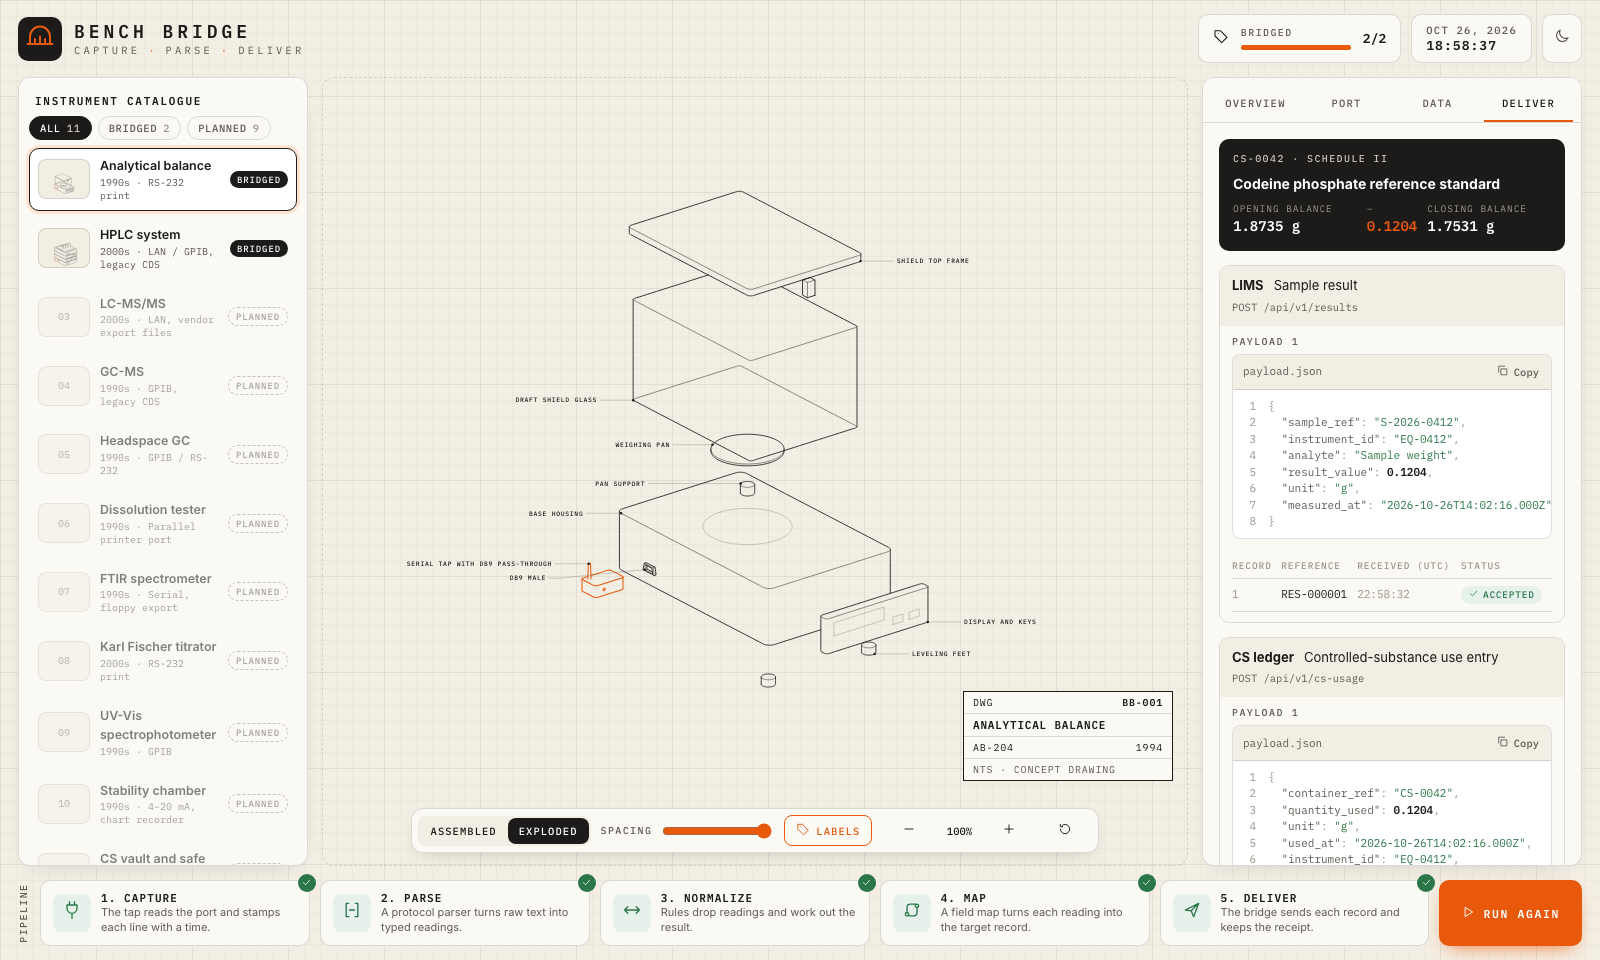
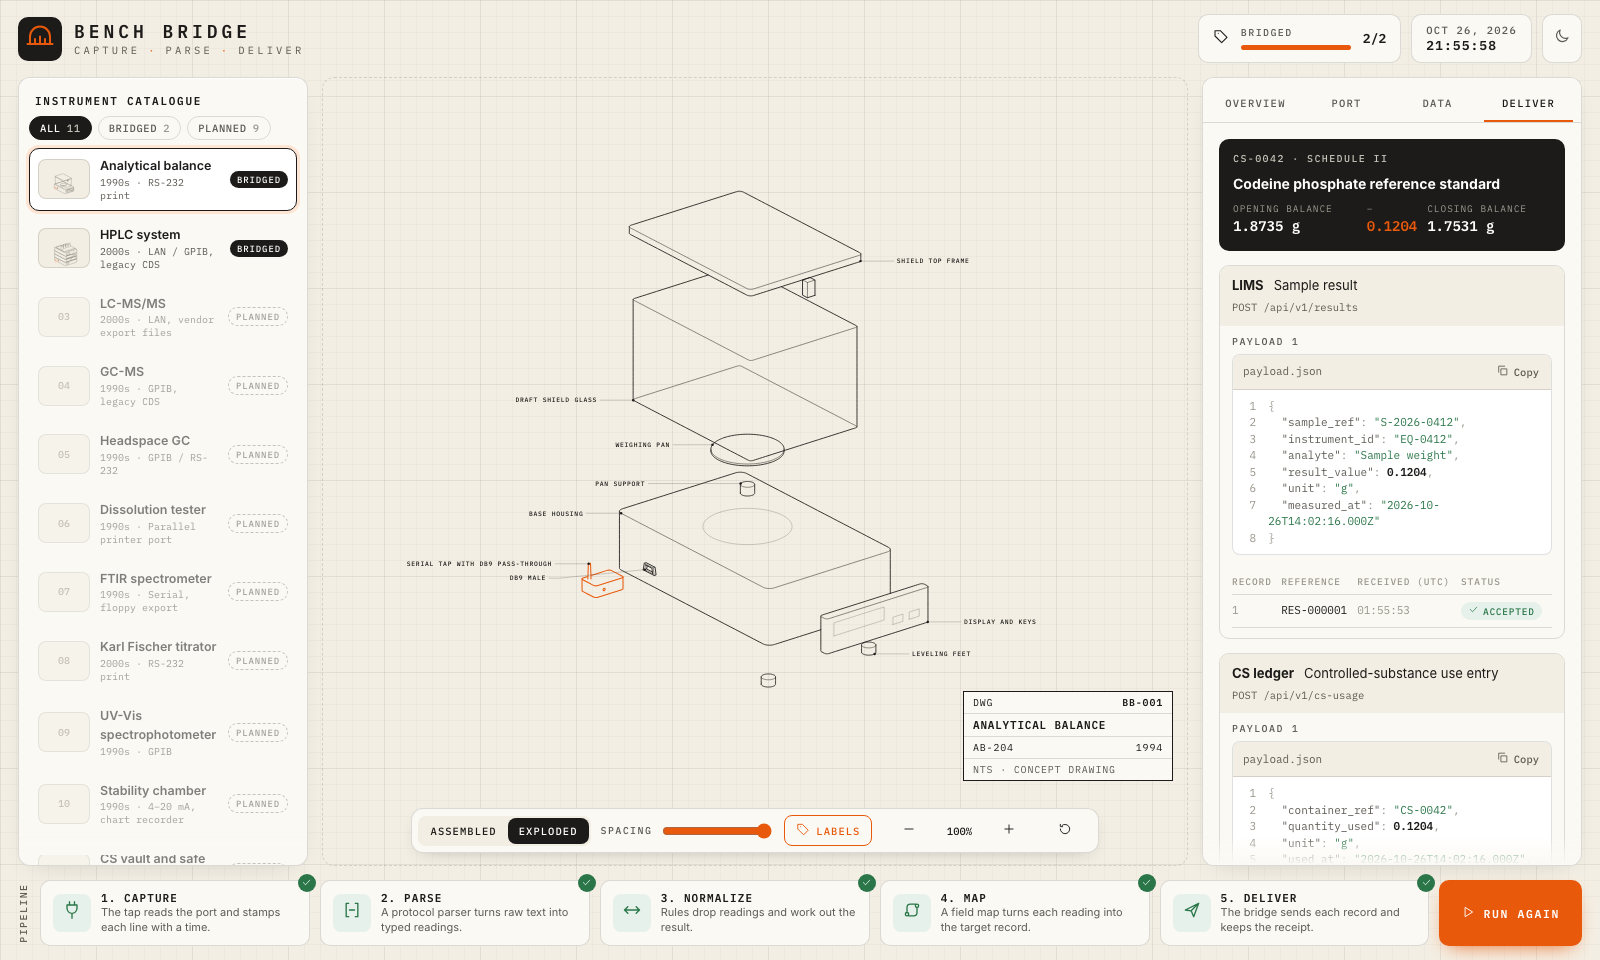
Wrap code lines and fade the foot of a scrolling panel
On a phone the JSON payload lines ran past the right edge of the code block, so a closing quote and comma were hidden, and the block scrolled sideways with no cue. Code lines now wrap. A panel that scrolls now fades at its foot, so content cut there reads as more below. The fit check now fails when a code block holds a line wider than its box.

Claude-Session: https://claude.ai/code/session_01CqjQfdrAKLtMmjtwLw9jWz

Changed region(s): [[0.75, 0.5312, 0.9688, 0.9062], [0.9062, 0.5, 0.9688, 0.5312]]

diff --git a/client/styles.css b/client/styles.css
@@ -38,6 +38,8 @@ code, pre { font-family: var(--font-mono); }
   box-shadow: var(--shadow-panel);
   overflow: auto;
 }
+/* A scrolling panel fades at its foot, so content cut off there reads as "more below". */
+.panel::after { content: ""; display: block; flex: none; position: sticky; bottom: 0; width: 100%; height: var(--fade); background: linear-gradient(to bottom, transparent, var(--panel)); pointer-events: none; }
 .panel-title { font: 600 11px var(--font-mono); letter-spacing: 0.16em; text-transform: uppercase; padding: 16px 16px 8px; }
 
 /* Top bar */
@@ -229,9 +231,9 @@ td, th { padding: 6px 4px; border-bottom: 1px solid var(--line); }
 .payload { flex-direction: column; flex-wrap: nowrap; min-width: 0; }
 .code { min-width: 0; margin: 0; background: var(--raised); border: 1px solid var(--line); border-radius: var(--radius-sm); overflow: hidden; font-family: var(--font-mono); font-size: 11px; }
 .code figcaption { display: flex; justify-content: space-between; align-items: center; padding: 4px 4px 4px 10px; border-bottom: 1px solid var(--line); background: var(--paper); color: var(--ink-2); }
-.code ol { margin: 0; padding: 8px 0; list-style: none; overflow: auto; counter-reset: code; }
+.code ol { margin: 0; padding: 8px 0; list-style: none; counter-reset: code; }
 .code li { display: flex; gap: 12px; padding: 0 10px; counter-increment: code; }
-.code-text { white-space: pre; }
+.code-text { flex: 1; min-width: 0; white-space: pre-wrap; overflow-wrap: anywhere; }
 .code li::before { content: counter(code); min-width: 2ch; text-align: right; color: var(--ink-3); user-select: none; }
 .tok-key { color: var(--ink-2); }
 .tok-string { color: var(--ok); }

diff --git a/design/tokens.css b/design/tokens.css
@@ -49,6 +49,7 @@
   --motion-none: 0.01ms;
   /* size */
   --touch: 44px;
+  --fade: 28px;
 }
 :root[data-theme="dark"] {
   color-scheme: dark;

diff --git a/design/SPEC.md b/design/SPEC.md
@@ -14,9 +14,10 @@ The design spec: one source for the look of every screen. Copy this directory to
 6. Build the page as drafting paper: cream sheet, fine grid and ink lines. Make cards lighter than the sheet. Why: The look says engineering, not marketing.
 7. Use motion to explain a change: a line arrives, a step finishes. Use the motion tokens. Stop motion when the user asks for reduced motion. Why: Motion that explains is useful. Other motion distracts.
 8. Show a state with a word or an icon as well as a colour. Why: Some readers cannot tell the colours apart.
-9. Give every colour and shadow a dark value. Never branch on the theme in a stylesheet. Keep each colour pair in the contrast file. Why: Both themes then come from one source, and a test finds a faint pair.
-10. Write no raw colour, radius, shadow or timing in a stylesheet. Use a token. Why: One source means one change. A test enforces this.
-11. Run the fit check after every layout change. It opens every window size in the viewports file. Why: A layout that fits one size often fails another.
+9. Let nothing run past an edge. Wrap code lines. Fade the foot of a panel that scrolls, so cut content reads as more below. Why: Content cut at an edge with no cue looks like a fault, and the reader cannot tell what is missing.
+10. Give every colour and shadow a dark value. Never branch on the theme in a stylesheet. Keep each colour pair in the contrast file. Why: Both themes then come from one source, and a test finds a faint pair.
+11. Write no raw colour, radius, shadow or timing in a stylesheet. Use a token. Why: One source means one change. A test enforces this.
+12. Run the fit check after every layout change. It opens every window size in the viewports file. Why: A layout that fits one size often fails another.
 
 ## Tokens
 
@@ -91,6 +92,7 @@ The design spec: one source for the look of every screen. Copy this directory to
 | Token | Value | Use |
 | --- | --- | --- |
 | `--touch` | `44px` | Smallest tap target on a narrow window. |
+| `--fade` | `28px` | Height of the fade at the foot of a panel that scrolls. |
 
 ## Contrast
 
@@ -147,7 +149,7 @@ The fit check opens each size.
 
 | Name | Selector | Use | States | Tokens | Origin |
 | --- | --- | --- | --- | --- | --- |
-| Panel | `.panel` | The card that holds each region of the app. | none | `panel`, `line`, `radius-lg`, `shadow-panel` | Original |
+| Panel | `.panel` | The card that holds each region of the app. | none | `panel`, `line`, `radius-lg`, `shadow-panel`, `fade` | Original |
 | Eyebrow | `.eyebrow` | A small mono label above a group of content. | none | `ink-2`, `font-mono` | Original |
 | Segmented control | `.segmented` | Pick one of a few modes. | `is-on` | `paper`, `on-ink`, `radius-sm`, `ink-card` | Original |
 | Chip | `.chip` | A toggle for one option. | `is-on` | `line`, `accent`, `radius-sm` | Original |
